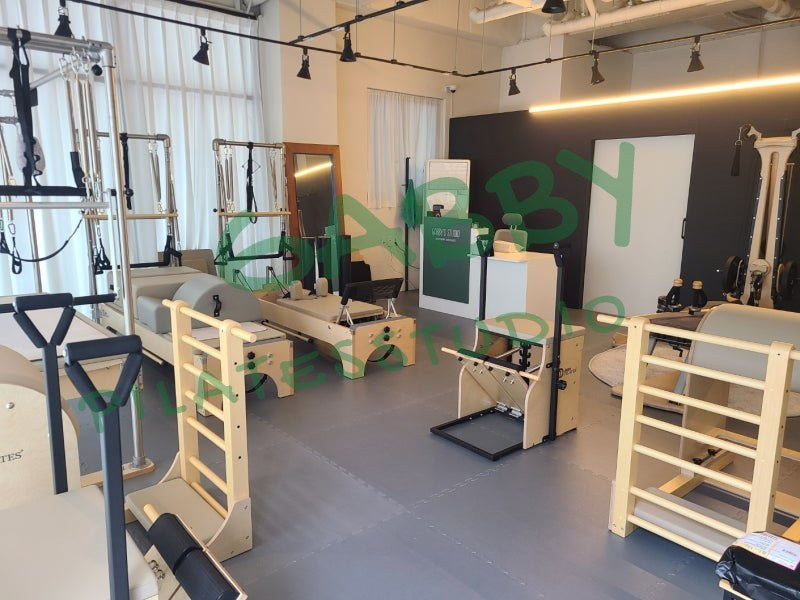
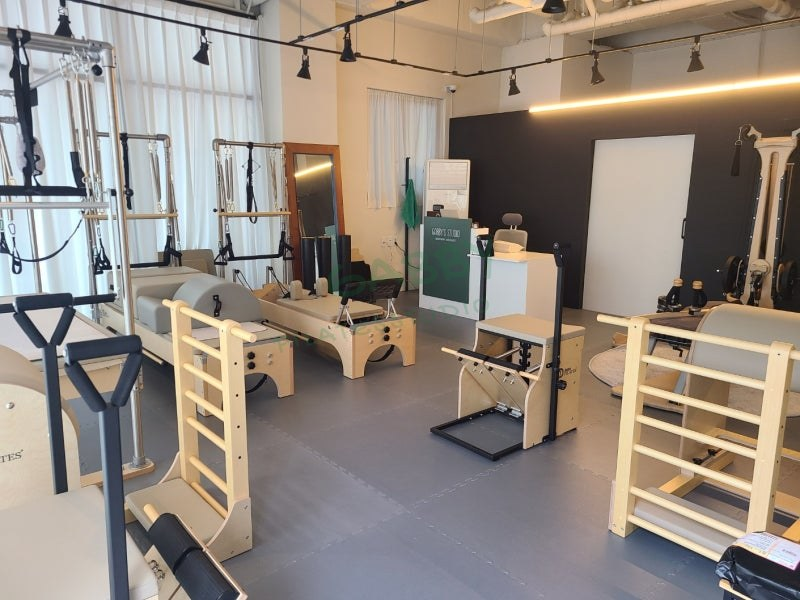
Watermark: much smaller and fainter

diff --git a/admin/index.html b/admin/index.html
@@ -325,9 +325,9 @@
         i.onerror = () => reject(new Error('워터마크 이미지를 불러오지 못했습니다. 새로고침 후 다시 시도해 주세요.'));
         i.src = '../images/watermark.png?v=' + Date.now();
       });
-      const mw = Math.min(w * 0.86, h * 0.86 * markImg.naturalWidth / markImg.naturalHeight);
+      const mw = Math.min(w * 0.34, h * 0.34 * markImg.naturalWidth / markImg.naturalHeight);
       const mh = mw * markImg.naturalHeight / markImg.naturalWidth;
-      ctx.save(); ctx.globalAlpha = 0.38;
+      ctx.save(); ctx.globalAlpha = 0.18;
       ctx.drawImage(markImg, (w - mw) / 2, (h - mh) / 2, mw, mh);
       ctx.restore();
     }
